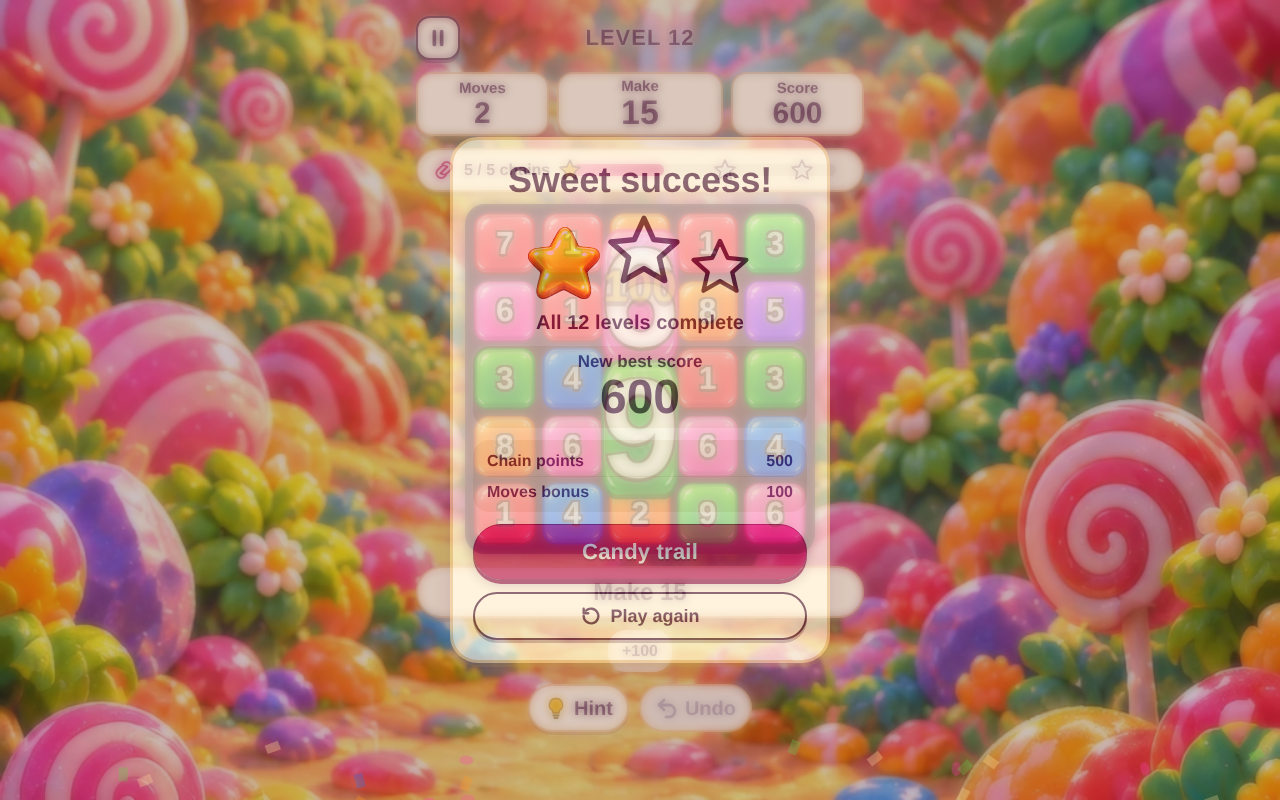
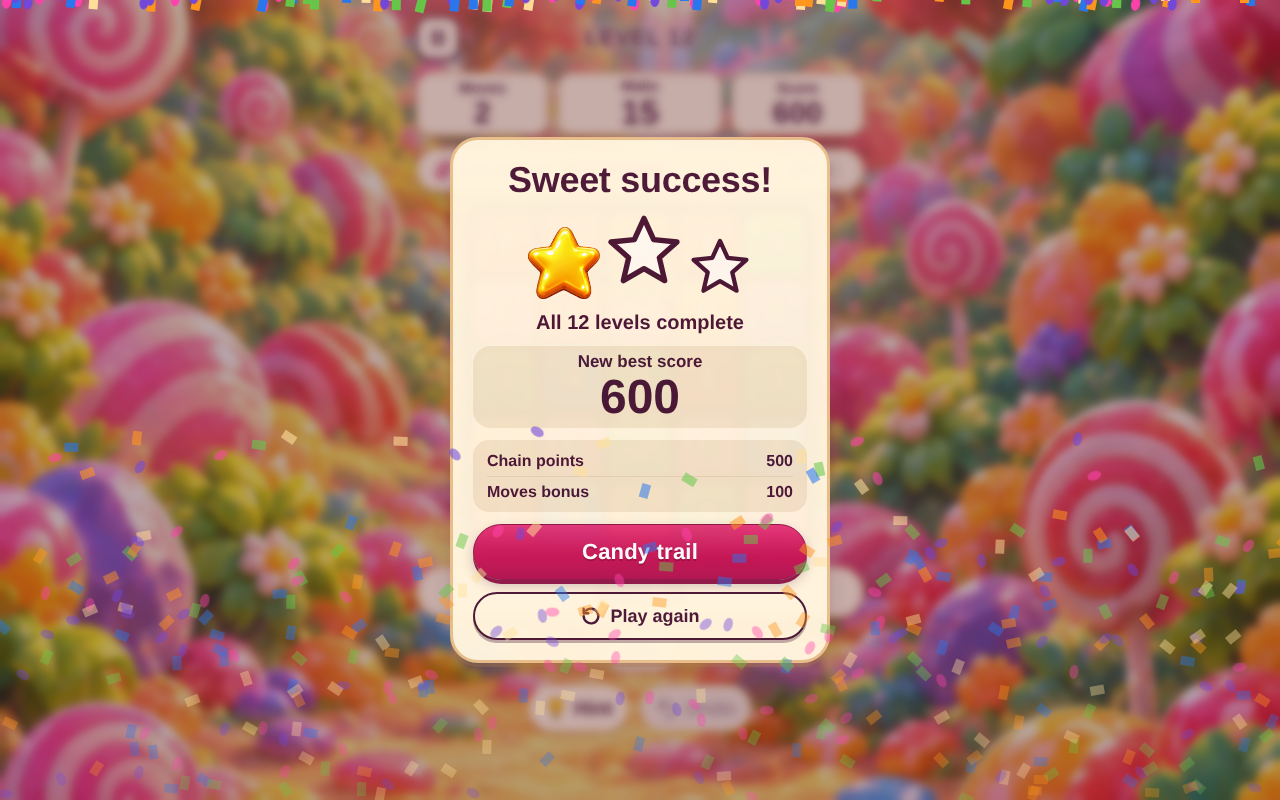
math-crush: night 4
FB-004: hammer, Sugar Rush and speed challenge removed; core-v1 save migration; FB-005 completion report.

Claude-Session: https://claude.ai/code/session_014Xx1rQpxykvN4DE2yHstiy

diff --git a/games/math-crush/index.html b/games/math-crush/index.html
@@ -994,7 +994,7 @@ function mHome() {
     const g = act.g;
     h += `<button class="pbtn" data-k="continue">Continue · Level ${(act.ok ? g.li : act.li) + 1}<br><span style="font-size:.9375rem;font-weight:800">${act.ok ? `${g.made} of ${g.quota} chains · ${g.movesLeft} move${g.movesLeft === 1 ? "" : "s"} left` : "Saved attempt"}</span></button>`;
   } else if (v3.offerStart !== null && v3.offerStart !== undefined) {
-    h += `<div class="banner panel small" role="note">Your unfinished game was saved under the old rules. It is kept, but can't continue.</div>`;
+    h += `<div class="banner panel small" role="note">Your stars and levels are safe. Your unfinished round was played under the old rules, so it starts fresh.</div>`;
     h += `<button class="pbtn" data-k="offer-start">Start this level · Level ${v3.offerStart + 1}</button>`;
   } else {
     h += `<button class="pbtn" data-k="play" style="min-height:64px;font-size:1.75rem">Play · Level ${playLevel() + 1}</button>`;

diff --git a/design-studio/games/math-crush/feedback/FB-005-focus-on-core-done.md b/design-studio/games/math-crush/feedback/FB-005-focus-on-core-done.md
@@ -1,0 +1,29 @@
+# FB-005 — Math Crush
+Kind: completion-report
+Packet: H-002-v1 as changed by owner scope update FB-004 (focus on chains and special candies)
+Code commit / private playable URL: night 4 commits on main (`math-crush: night 4`, preceded by `remove hammer, Sugar Rush and speed challenge (FB-004)`), baseline `1c4d9c5`. Playable: https://claude.ai/artifact/D5kYHgsZbouMh73g1VMLTj (private, version 6).
+
+Requirement IDs and implemented/deferred/failed results:
+
+| ID | Result | What was done |
+|---|---|---|
+| FB-004-A hammer (MC-014) | Implemented | No hammer button, charge, targeting/confirm flow, L6 cue, help copy, keyboard path or `__qa` action. Engine `M.hammer` and level `tools` data removed. Restored older saves drop the hammer fields. |
+| FB-004-B Sugar Rush (MC-015) | Implemented | No charge bar, ×2, activation cue/sound, L8 lesson or Rush fixtures. Long-chain multipliers and stripe/wrapped blast scoring unchanged. An old attempt with Rush state (L8–12) cannot resume (see E). |
+| FB-004-C time challenge (MC-017 speed) | Implemented | No "Try speed challenge" button, clock, time rows or record, no active-time ticker. Results keep Next, Play again, score and stars. Play is untimed. |
+| FB-004-D stickers (MC-016) | Implemented as recommended | Perfect Batch and Sugar Rush retired: never awarded; book shows 4 active stickers ("n of 4 discovered"). Earned ones stay in history, still usable as the badge, and show under "Retired · earned under the old rules" only for players who earned them. No replacement sticker invented. |
+| FB-004-E saves and balance (MC-019 / MC-011) | Implemented | New rules version `core-v1` for records and attempts; one-time migration on load. Unlocks, stars, wins, sticker history and the old `sweet-v1` records (including best times) are kept verbatim. Best scores carry over for L1–7 (no Rush there; the hammer never scored). For L8–12 the old best moves to `rushBest`, shown on the result card as "Best with Sugar Rush (old rules)"; the current best starts at 0. An unfinished L1–7 attempt continues (hammer/Rush/clock fields stripped, same scoring, Undo history kept). An unfinished L8–12 attempt is archived and offered as "Start this level" with "Your stars and levels are safe. Your unfinished round was played under the old rules, so it starts fresh." No damaged-save message. Three-star reachability without Rush re-verified on all 12 levels (real-engine beam search, width 40): L8 1812 ≥ 1200, L9 3075, L10 3600, L11 3025, L12 3050 ≥ 1500. No threshold changes. |
+
+Commands actually run and outcomes:
+- `node tools/qa/playtest.mjs games/math-crush/index.html`: all checks passed (12/12 levels solved).
+- `node games/math-crush/qa/engine-tests.mjs`: 85/85. Includes new FB-004 checks: no hammer/Rush UI, copy, state or action on any level; L8+ chains score unboosted; no speed button/clock/time rows; retired stickers never awarded; migration of a sweet-v1 save with an L3 attempt and with an L9 attempt.
+- `node games/math-crush/qa/screens.mjs`: phone, small phone, desktop and 150 % text; no layout problems.
+- Separate reviewer agent: "ship it". It made real saves in the previous build and opened them in this one; carry-over confirmed.
+
+Phone/desktop screenshots and interaction evidence: `games/math-crush/qa/screens/` (`*-h01-L6-toolbar-no-hammer`, `*-r01-L8-no-rush`, `*-r02-L8-after-3-chain`, `*-w03-L8-win-old-rush-best`, `*-b04-book-retired`, `*-p06-old-attempt-offer`) and `qa/engine-tests.json`.
+
+Deviations, unresolved questions and proposed resolution:
+- The "Best with Sugar Rush (old rules)" line keeps the Rush name visible on L8–12 for players who had one. FB-004-E asks to distinguish these scores, so it stays; the reviewer suggested dropping it. Designer call.
+- Reviewer findings outside this scope (proposals only, not built): flat L5–12 curve (same target/quota/moves/thresholds; 4-candy chains alone give ★★★ on 11 of 12 levels), the loss card's three example tiles don't relate to the loss, the same colour for different values (n mod 6, still open from FB-003), the post-blast ghosts and popup overlap for a moment, no non-addition operators yet.
+- Not run: real device, sound/haptics by ear, screen reader.
+
+Owner acceptance: pending

diff --git a/games/math-crush/NIGHTS.md b/games/math-crush/NIGHTS.md
@@ -1,5 +1,32 @@
 # Math Crush — night log
 
+## Night 4 — 2026-10-29
+
+**Job:** owner scope change FB-004 (Benji, 28 Oct: "remove the hammer and the sugar rush and the time challenge"), recorded by
+the designer with development named as the next action. No pending board notes, nothing queued. Treated as job 1b (outstanding
+approved work on the H-002-v1 packet).
+
+**Shipped:**
+- Hammer, Sugar Rush and the speed challenge are gone: UI, cues, help copy, sounds, clock, engine code, level fields and `__qa` hooks.
+- Perfect Batch and Sugar Rush stickers retired (4 active). Earned ones are kept, usable as a badge, and shown under "Retired".
+- New rules version `core-v1` with a one-time migration. Stars, unlocks, wins and stickers are kept. L1–7 bests carry over; L8–12 bests become
+  "Best with Sugar Rush (old rules)". An unfinished L1–7 game continues; an L8–12 one restarts with a clear note.
+- Three stars still reachable on every level without Rush; no threshold changes.
+
+**QA:** playtest all checks passed · engine tests 85/85 · screen audit clean (4 sizes) · 2 rounds. Local note: `tools/` pins
+playwright 1.56, whose browser isn't in this sandbox, so the run linked the preinstalled playwright 1.63 into `tools/node_modules` (not committed).
+
+**Reviewer:** ship it. The removal is clean and the save carry-over works. Fixed: the old-attempt message now says stars and levels are
+safe and that the round starts fresh. Not fixed (out of scope, in FB-005): flat L5–12 curve, loss-card tiles, colour-by-value-mod-6,
+blast animation overlap.
+
+**Assumptions:** FB-004 counts as approved scope for the night studio; the sticker treatment follows the designer's recommendation;
+L1–7 bests are comparable across versions (the hammer never scored).
+
+**Questions for Benji:** see the board report.
+
+**Play:** https://claude.ai/artifact/D5kYHgsZbouMh73g1VMLTj
+
 ## Night 3 — 2026-10-25
 
 **Job:** approved hand-over not yet built — `design-studio/games/math-crush/handovers/H-002-v1` ("play first, sweet rewards"),
